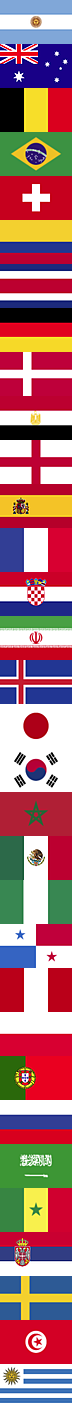
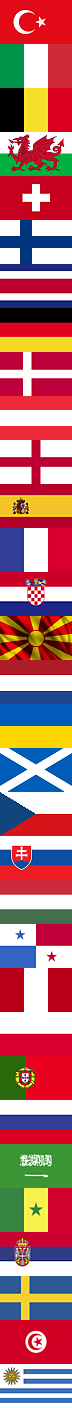
Temporary fix to add the euro2021 team flags to CSS

diff --git a/src/main/resources/static/css/ncomplo.css b/src/main/resources/static/css/ncomplo.css
@@ -455,26 +455,53 @@ form#password {
 }
 
 .world-flag-AR, .world-flag-ARG {background-position: 0%   0.000%;}
+.world-flag-TU, .world-flag-TUR {background-position: 0%   0.000%;}
+
 .world-flag-AU, .world-flag-AUS {background-position: 0%   3.226%;}
+.world-flag-IT, .world-flag-ITA {background-position: 0%   3.226%;}
+
 .world-flag-BE, .world-flag-BEL {background-position: 0%   6.452%;}
+
 .world-flag-BR, .world-flag-BRA {background-position: 0%   9.678%;}
+.world-flag-WL, .world-flag-WLS {background-position: 0%   9.678%;}
+
 .world-flag-CH, .world-flag-SUI {background-position: 0%  12.904%;}
+
 .world-flag-CO, .world-flag-COL {background-position: 0%  16.130%;}
+.world-flag-FI, .world-flag-FIN {background-position: 0%  16.130%;}
+
 .world-flag-CR, .world-flag-CRC {background-position: 0%  19.356%;}
 .world-flag-GER                 {background-position: 0%  22.582%;}
 .world-flag-DK, .world-flag-DEN {background-position: 0%  25.808%;}
+
 .world-flag-EG, .world-flag-EGY {background-position: 0%  29.034%;}
+.world-flag-AUT                 {background-position: 0%  29.034%;}
+
 .world-flag-ENG 				{background-position: 0%  32.260%;}
 .world-flag-ES, .world-flag-ESP {background-position: 0%  35.486%;}
 .world-flag-FR, .world-flag-FRA {background-position: 0%  38.712%;}
 .world-flag-HR, .world-flag-CRO {background-position: 0%  41.938%;}
 .world-flag-IR, .world-flag-IRN {background-position: 0%  45.164%;}
+.world-flag-MKD                 {background-position: 0%  45.164%;}
+
 .world-flag-IS, .world-flag-ISL {background-position: 0%  48.390%;}
+.world-flag-NLD                 {background-position: 0%  48.390%;}
+
 .world-flag-JP, .world-flag-JPN {background-position: 0%  51.616%;}
+.world-flag-UKR                 {background-position: 0%  51.616%;}
+
 .world-flag-KR, .world-flag-KOR {background-position: 0%  54.842%;}
+.world-flag-SCT                 {background-position: 0%  54.842%;}
+
 .world-flag-MA, .world-flag-MAR {background-position: 0%  58.068%;}
+.world-flag-CZE                 {background-position: 0%  58.068%;}
+
 .world-flag-MX, .world-flag-MEX {background-position: 0%  61.294%;}
+.world-flag-SVK                 {background-position: 0%  61.294%;}
+
 .world-flag-NG, .world-flag-NGA {background-position: 0%  64.520%;}
+.world-flag-HUN                 {background-position: 0%  64.520%;}
+
 .world-flag-PA, .world-flag-PAN {background-position: 0%  67.746%;}
 .world-flag-PE, .world-flag-PER {background-position: 0%  70.972%;}
 .world-flag-PL, .world-flag-POL {background-position: 0%  74.198%;}
